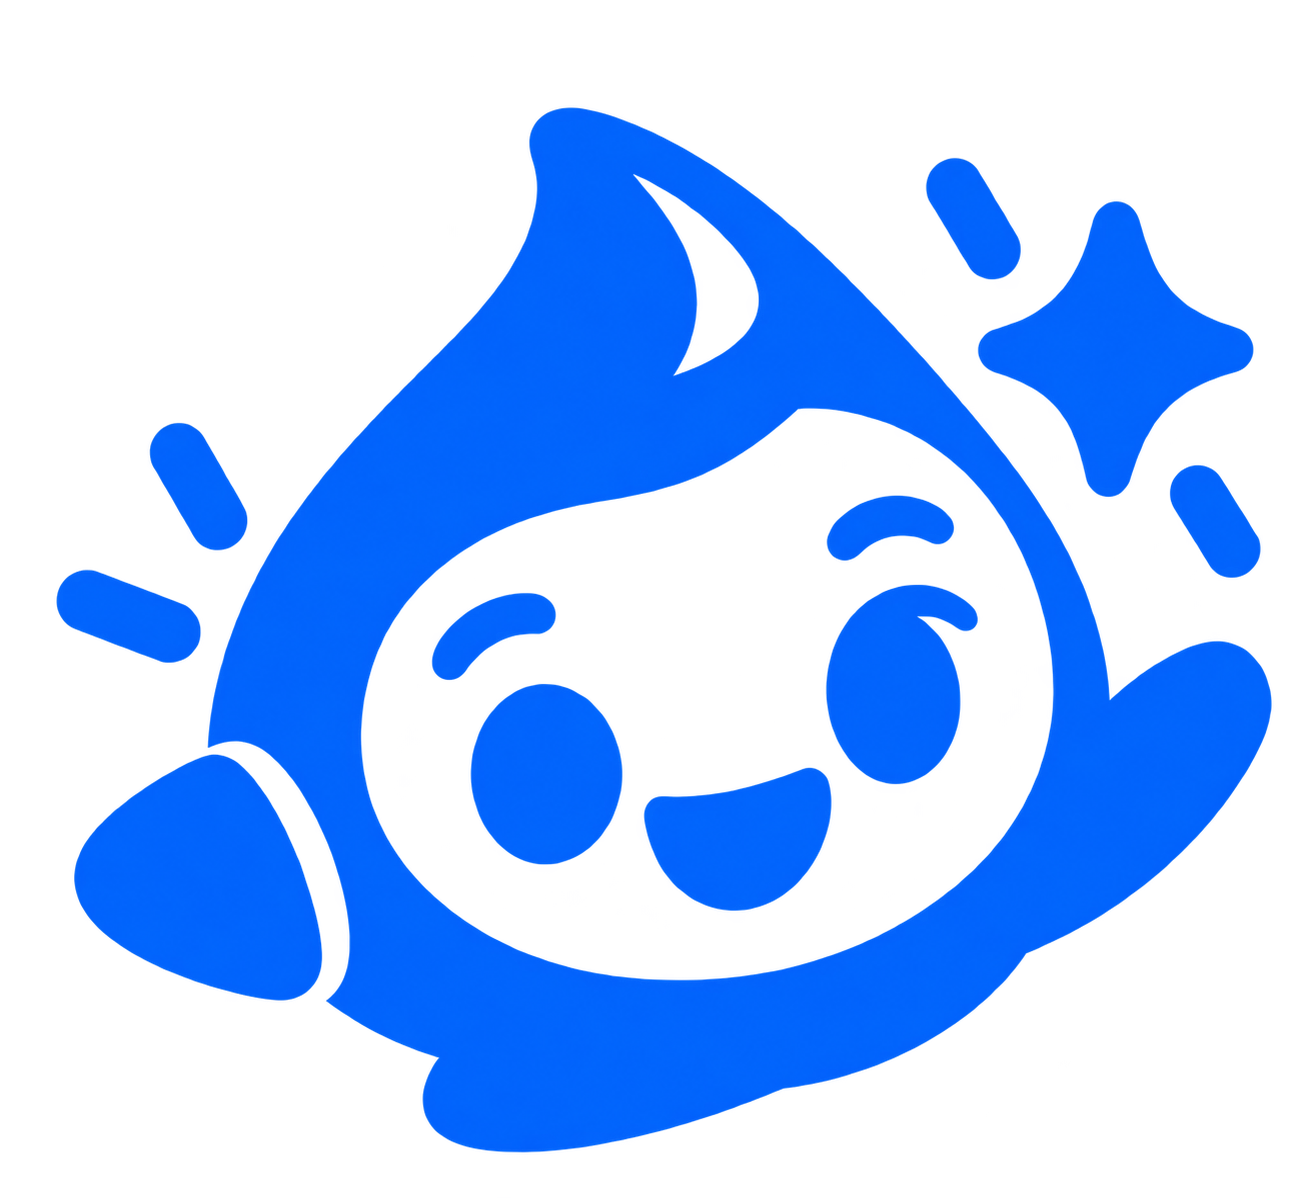
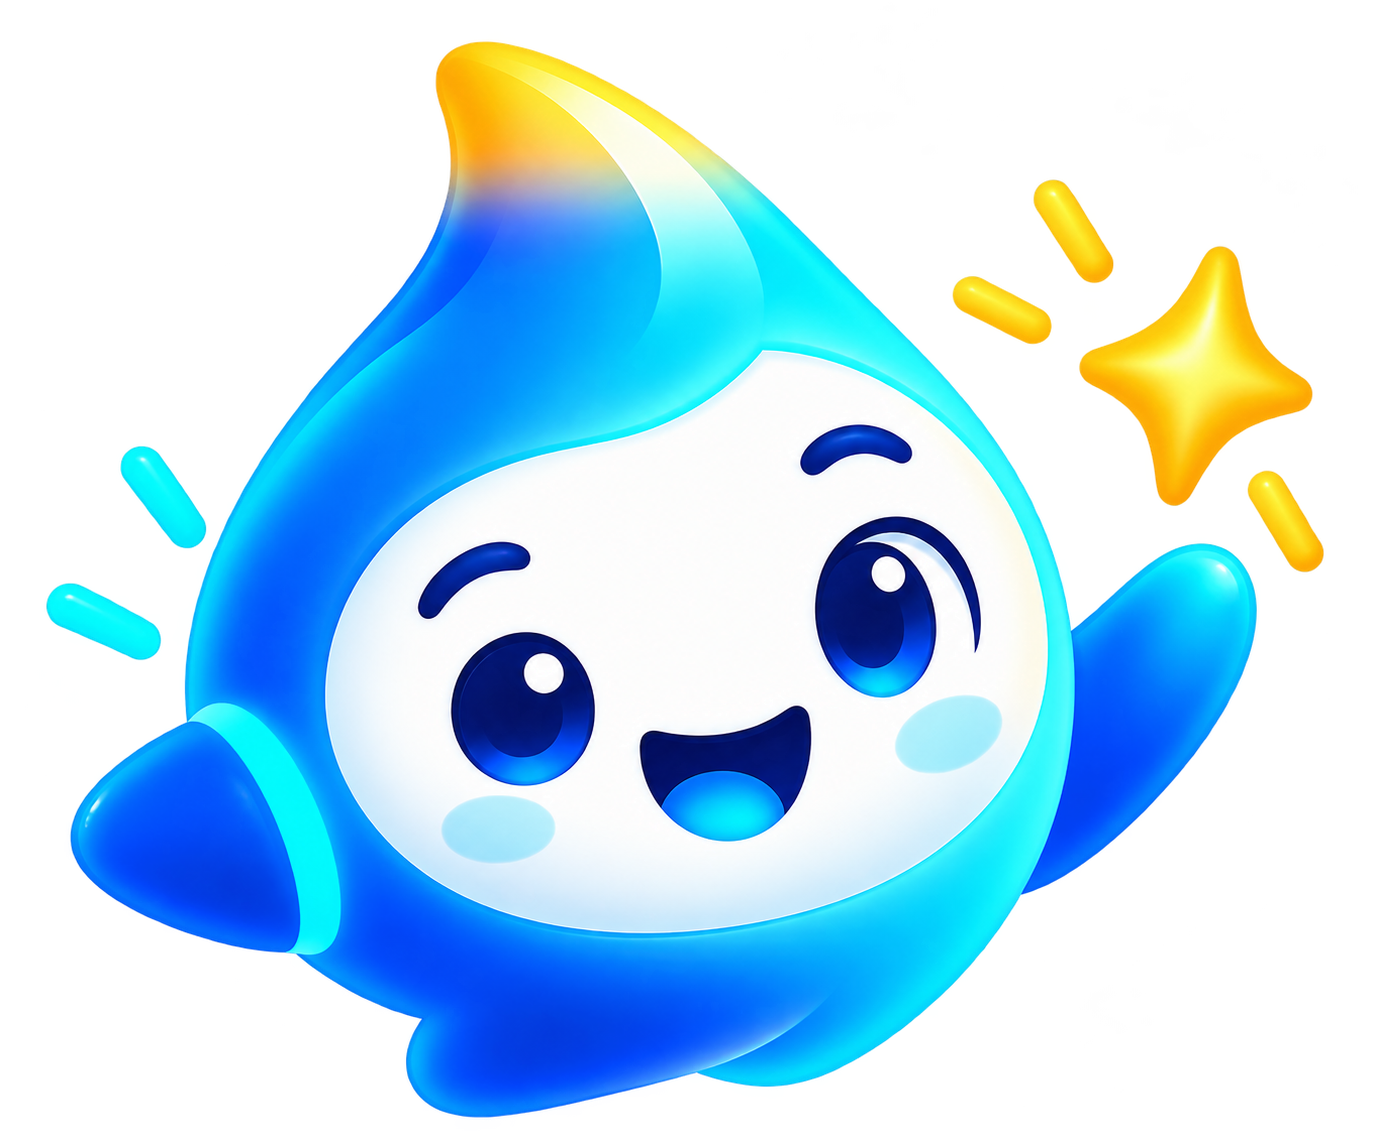
Usa la mascota principal de Brilla en las acciones de IA

diff --git a/aula-virtual/artifacts/cuadrilla/static/css/dmc.css b/aula-virtual/artifacts/cuadrilla/static/css/dmc.css
@@ -92,11 +92,11 @@ code{background:var(--soft);padding:1px 6px;border-radius:6px}
 .btn-cyan{background:var(--cyan);color:var(--on-cyan);border-color:var(--cyan)}.btn-cyan:hover{background:#00a6bb}
 .btn-block{width:100%}
 .btn .ico{width:18px;height:18px}
-.ai-mark{display:inline-flex;align-items:center;justify-content:center;gap:2px;flex:0 0 auto;min-width:42px;height:28px;padding:2px 4px;border-radius:8px;background:#fff;color:#0068ff;box-shadow:0 0 0 1px #0068ff12}
-.ai-mark img{display:block;width:24px;height:24px;object-fit:contain}
+.ai-mark{display:inline-flex;align-items:center;justify-content:center;gap:4px;flex:0 0 auto;min-width:54px;height:36px;padding:2px 4px;border-radius:10px;background:#fff;color:#004b8d;box-shadow:0 0 0 1px #01122b24}
+.ai-mark img{display:block;width:32px;height:32px;object-fit:contain}
 .ai-mark>span{font-size:9px;font-weight:700;letter-spacing:.02em;line-height:1}
 .ai-mark[hidden],[data-ai-label][hidden]{display:none}
-.btn[data-ai-action]{text-align:left;line-height:1.4}
+.btn[data-ai-action]{text-align:left;line-height:1.4;padding-block:6px}
 .btn[data-ai-action]:hover .ai-mark img,.btn[data-ai-action]:focus-visible .ai-mark img{animation:brilla-hello .55s ease-out}
 .btn[data-ai-action].is-ai-busy .ai-mark img{animation:brilla-working 1.6s ease-in-out infinite}
 .btn[data-ai-action].is-ai-busy .ai-mark{box-shadow:0 0 0 2px #00bfd75c}
@@ -266,7 +266,7 @@ progress.bar::-moz-progress-bar{background:var(--primary);border-radius:99px}
 .assistant-heading{display:flex;align-items:center;gap:10px}
 .ai-provider-fields{display:grid;gap:12px;margin:4px 0;padding:16px;border:1px solid var(--border);border-radius:10px;min-width:0}
 .ai-provider-fields legend{font-weight:600;padding:0 6px}.ai-provider-fields p{margin:0;overflow-wrap:anywhere}
-.assistant-heading img{object-fit:contain;flex-shrink:0}
+.assistant-heading img{width:52px;height:52px;object-fit:contain;flex-shrink:0}
 .assistant-suggestions .btn{white-space:normal;text-align:left}
 .assistant-findings{padding-left:20px;display:grid;gap:16px}
 .assistant-findings p{margin:0 0 6px;white-space:pre-line;overflow-wrap:anywhere}
@@ -297,7 +297,7 @@ progress.bar::-moz-progress-bar{background:var(--primary);border-radius:99px}
 @media(max-width:600px){.profile-fields{grid-template-columns:minmax(0,1fr)}.profile-heading{flex-direction:column}}
 
 /* Shared AI class study material */
-.summary-mascot{display:block;flex:0 0 28px;object-fit:contain}
+.summary-mascot{display:block;flex:0 0 36px;width:36px;height:36px;object-fit:contain}
 .class-summary{border-top:1px solid var(--border);padding-block:14px;overflow-wrap:anywhere}
 .class-summary:last-child{padding-bottom:0}
 .class-summary summary{min-height:44px;cursor:pointer;color:var(--title);padding:6px 0;list-style:disclosure-closed}

diff --git a/aula-virtual/artifacts/cuadrilla/templates/_ai.html b/aula-virtual/artifacts/cuadrilla/templates/_ai.html
@@ -1,7 +1,7 @@
 {# Shared marker for actions that call an AI provider, including queued work. #}
 {% macro ai_button(label, enabled=true, cls='btn', name=None, value=None, submit_hook=false, active=true, confirm=None) -%}
 <button class="{{ cls }}" type="submit"{% if name %} name="{{ name }}" value="{{ value }}"{% endif %}{% if submit_hook %} data-submit{% endif %}{% if confirm %} data-confirm="{{ confirm }}"{% endif %}{% if enabled and active %} data-ai-action title="Brilla · Acción con inteligencia artificial"{% endif %}>
-  {% if enabled %}<span class="ai-mark" aria-hidden="true"{% if not active %} hidden{% endif %}><img src="{{ url_for('static', path='img/brilla-ai.png') }}" alt="" width="24" height="24"><span>IA</span></span><span class="sr-only" data-ai-label{% if not active %} hidden{% endif %}>Brilla, inteligencia artificial: </span>{% endif %}
+  {% if enabled %}<span class="ai-mark" aria-hidden="true"{% if not active %} hidden{% endif %}><img src="{{ url_for('static', path='img/brilla-ai.png') }}?v=primary-20261015" alt="" width="32" height="32"><span>IA</span></span><span class="sr-only" data-ai-label{% if not active %} hidden{% endif %}>Brilla, inteligencia artificial: </span>{% endif %}
   <span>{{ label }}</span>
 </button>
 {%- endmacro %}

diff --git a/aula-virtual/artifacts/cuadrilla/templates/teacher/class.html b/aula-virtual/artifacts/cuadrilla/templates/teacher/class.html
@@ -143,7 +143,7 @@
     {% endif %}
     {% if clase.transcript %}
     <section class="card" id="resumen-clase" aria-labelledby="t-resumen-clase">
-      <h2 class="card-title" id="t-resumen-clase"><img class="summary-mascot" src="{{ url_for('static', path='img/brilla-ai.png') }}" alt="" width="28" height="28"> Resumen de la clase <span class="chip chip-info">IA</span></h2>
+      <h2 class="card-title" id="t-resumen-clase"><img class="summary-mascot" src="{{ url_for('static', path='img/brilla-ai.png') }}?v=primary-20261015" alt="" width="36" height="36"> Resumen de la clase <span class="chip chip-info">IA</span></h2>
       {% if resumen_clase and resumen_clase.estado == 'listo' and resumen_clase.contenido %}
         <p class="tiny muted">Los alumnos lo ven al publicarse la clase.</p>
         <details class="class-summary"><summary>Leer resumen</summary>{{ contenido_resumen(resumen_clase.contenido) }}</details>

diff --git a/aula-virtual/artifacts/cuadrilla/templates/teacher/assistant.html b/aula-virtual/artifacts/cuadrilla/templates/teacher/assistant.html
@@ -9,7 +9,7 @@
 {% block scripts %}<script src="{{ url_for('static', path='js/assistant.js') }}?v=20261015" defer></script>{% endblock %}
 {% block content %}
 <p class="crumbs"><a href="{{ url_for('teacher_home') }}">Mis cursos</a> › <a href="{{ url_for('teacher_course', curso_id=curso.id) }}">{{ curso.nombre }}</a> › Asistente Brilla</p>
-<h1 class="page-title assistant-heading"><img src="{{ url_for('static', path='img/brilla-ai.png') }}" alt="" width="42" height="42"> Asistente Brilla</h1>
+<h1 class="page-title assistant-heading"><img src="{{ url_for('static', path='img/brilla-ai.png') }}?v=primary-20261015" alt="" width="52" height="52"> Asistente Brilla</h1>
 <p class="page-sub">Comprende el avance de tus alumnos y prepara el siguiente paso con evidencias del curso.</p>
 {% include "teacher/_course_nav.html" %}
 <div class="grid assistant-layout">

diff --git a/aula-virtual/artifacts/cuadrilla/templates/student/course.html b/aula-virtual/artifacts/cuadrilla/templates/student/course.html
@@ -58,7 +58,7 @@
     </section>
 
     <section class="card" id="resumenes" aria-labelledby="t-resumenes">
-      <h2 class="card-title" id="t-resumenes"><img class="summary-mascot" src="{{ url_for('static', path='img/brilla-ai.png') }}" alt="" width="28" height="28"> Resúmenes de clase <span class="chip chip-info">IA</span></h2>
+      <h2 class="card-title" id="t-resumenes"><img class="summary-mascot" src="{{ url_for('static', path='img/brilla-ai.png') }}?v=primary-20261015" alt="" width="36" height="36"> Resúmenes de clase <span class="chip chip-info">IA</span></h2>
       <p class="small muted">Repasa lo explicado en cada sesión. Brilla prepara estos resúmenes a partir del transcript de la clase.</p>
       {% for f in quizzes %}
         {% set resumen = resumenes.get(f.clase.id) %}

diff --git a/aula-virtual/artifacts/cuadrilla/templates/base.html b/aula-virtual/artifacts/cuadrilla/templates/base.html
@@ -10,7 +10,7 @@
 <meta name="robots" content="noindex">
 <link rel="icon" href="{{ url_for('static', path='favicon.svg') }}" type="image/svg+xml">
 <link rel="preload" href="{{ url_for('static', path='fonts/poppins-latin.woff2') }}" as="font" type="font/woff2" crossorigin>
-  <link rel="stylesheet" href="{{ url_for('static', path='css/dmc.css') }}?v=20261015-vertex">
+  <link rel="stylesheet" href="{{ url_for('static', path='css/dmc.css') }}?v=20261015-primary">
 <script src="{{ url_for('static', path='js/ui.js') }}?v=20261015-notificaciones" defer></script>
 {% block scripts %}{% endblock %}
 </head>

diff --git a/aula-virtual/documentacion/brilla-acciones-ia.md b/aula-virtual/documentacion/brilla-acciones-ia.md
@@ -1,36 +1,33 @@
 # Brilla: indicador de acciones con IA
 
-Se eligió únicamente el logo 06, «Simplified icon», de la lámina BRILLA proporcionada por el usuario. El PNG transparente se sirve localmente desde `artifacts/cuadrilla/static/img/brilla-ai.png`.
+Se usa la mascota del logo 01, «PRIMARY LOGO», de la lámina BRILLA proporcionada por el usuario, sin la palabra BRILLA. El PNG transparente conserva el rostro blanco opaco, los colores y la estrella; se sirve localmente desde `artifacts/cuadrilla/static/img/brilla-ai.png`.
 
-## Comportamiento
+## Presentación y comportamiento
 
-La macro compartida `templates/_ai.html` muestra la mascota de 24 px y una etiqueta IA en el botón. El texto accesible y el tooltip identifican a Brilla y el uso de inteligencia artificial. El mismo recurso identifica OpenAI y Gemini; no depende de una marca de proveedor.
+La macro compartida `templates/_ai.html` muestra la mascota de 32 px y una etiqueta IA sobre una base blanca con borde sutil. Así se distingue en botones azules, blancos y de acciones de rechazo. Los botones tienen una altura mínima de 50 px y permiten que su texto ocupe varias líneas en pantallas pequeñas.
 
-- Administrador: Cargar malla, Confirmar y guardar malla PDF y Volver a pedir la propuesta a la IA. Subir brochure se marca si el curso ya tiene temas y la IA está configurada, porque entonces solicita una nueva propuesta.
-- Docente: Procesar clase, Reintentar procesamiento, Generar otro reto y rechazar un reto que generará un reemplazo. En la bandeja de revisión se conserva el valor del botón Rechazar y reemplazar.
-- Guardar reto propio muestra el indicador cuando el tema permite completar otros niveles con IA. Se actualiza al seleccionar otro tema y no aparece para un tema exclusivamente básico.
-- Alumno: Enviar una respuesta de tipo Definir o Caso, cuya evaluación usa IA.
+El mismo recurso aparece a 36 px en los encabezados de resúmenes de alumnos y docentes, y a 52 px en el encabezado del Asistente Brilla. Las URL del PNG y del CSS llevan una versión para que el navegador descargue el cambio.
 
-Las pistas almacenadas, la selección del quiz a partir del banco existente, las respuestas verificables, las aprobaciones manuales y la navegación conservan sus botones habituales.
+El texto accesible y el tooltip identifican a Brilla y el uso de inteligencia artificial. El indicador corresponde a la acción, con independencia de que el proveedor seleccionado sea OpenAI o Gemini.
 
-El icono saluda brevemente al pasar el cursor o recibir foco. Al enviar un formulario válido pulsa suavemente mientras la petición está pendiente. No se anima cuando se cancela la confirmación; se restaura al volver con el navegador. La animación respeta `prefers-reduced-motion`. No se deshabilitan los botones con nombre/valor para conservar la acción enviada al servidor.
+- Administrador: carga de malla y confirmación de una malla PDF, nuevas propuestas de IA y carga de brochure cuando solicita una propuesta.
+- Docente: procesamiento y reintentos de clase, generación y reemplazo de retos, resúmenes y consultas al Asistente Brilla. Guardar un reto propio lleva el indicador cuando puede completar otros niveles con IA.
+- Alumno: envío de respuestas abiertas cuya evaluación requiere IA.
 
-## Verificación
+Las pistas almacenadas, las respuestas verificables, las aprobaciones manuales y la navegación conservan sus botones habituales.
 
-122 pruebas aprobadas, incluyendo cinco nuevas comprobaciones de marcadores por rol, proveedor y tipo de respuesta. Revisión visual en Chrome a tamaño de escritorio y 390 px, sin desbordamiento; comprobación del estado ocupado y del indicador condicional del reto propio. Pruebas en base aislada y con proveedor simulado, sin llamadas pagadas de IA.
+La mascota saluda brevemente al pasar el cursor o recibir foco. Al enviar un formulario válido pulsa suavemente mientras la petición está pendiente. No se anima cuando se cancela la confirmación; se restaura al volver con el navegador. La animación respeta `prefers-reduced-motion`. No se deshabilitan los botones con nombre/valor para conservar la acción enviada al servidor.
 
-## Preparación del recurso y prompts
+## Verificación visual
 
-Se usó la herramienta integrada `image_gen` (no CLI) para aislar el logo seleccionado de la lámina y preparar su transparencia. Originales conservados fuera del repositorio; la segunda salida es el recurso final. No se usa generación de imágenes en tiempo de ejecución de la plataforma.
+Revisión en Chrome a tamaño de escritorio y a 390 y 320 px: imágenes cargadas, botones de varios estilos legibles, textos largos adaptados y sin desbordamiento horizontal. Se comprobó también el encabezado del Asistente Brilla a 320 px. La revisión local usa una base aislada y un proveedor simulado.
 
-Prompt de extracción:
+## Preparación del recurso
 
-```text
-Use case: background-extraction. From the supplied BRILLA brand sheet, isolate ONLY the blue flat mascot in panel 06, labeled SIMPLIFIED ICON, in the lower right. Preserve its exact existing silhouette, smiling facial features, droplet crest, side arm, separate sparkle and short accent strokes. Keep the flat bright blue identity, approximately #0068FF; do not use the 3D mascot or any other variant. Remove the pale panel background, headings, borders, lettering and all other panels. Deliver a single centered, tightly framed, high resolution transparent PNG of that same simplified mascot and its sparkle. The face and all negative space must also be fully transparent, not white or pale blue. Clean crisp edges; no added shadow, no new details, no text, no container. This is a small button icon asset.
-```
+Se usó la herramienta integrada `image_gen.imagegen` para aislar la mascota del PRIMARY LOGO de la lámina original y preparar el PNG transparente. No se generan imágenes durante el uso de la plataforma.
 
-Prompt final de limpieza (edición de la primera salida):
+Prompt exacto de la edición:
 
 ```text
-Clean up this exact blue BRILLA simplified mascot cutout for production as a small UI icon. Preserve the shape, placement, face and separate sparkle/accents exactly. Make every blue shape uniformly solid #0068FF with crisp antialiased edges. Remove ALL tiny stray blue pixels, speckles, texture, noise and edge artifacts, especially inside the face, crest cutout and surrounding negative space. All negative space and background fully transparent. No pale or white fills, no text, no shadows, no gradients, no new shapes. Center and tightly frame the existing mascot with a small transparent margin.
+Use case: background-extraction. Asset type: production transparent mascot for website AI action buttons and section headings. Edit target: the supplied BRILLA brand sheet. Isolate ONLY the full-color three-dimensional mascot from the upper-left panel 01, PRIMARY LOGO; do NOT use panel 02 or the simplified flat logo. Preserve the existing primary mascot's exact friendly face, navy blue eyes and mouth, pale opaque white face, cyan and blue glossy droplet body, yellow-tipped swept crest, both arms, golden four-point sparkle and small cyan/yellow accent strokes. Remove the word BRILLA completely, all typography and headings, the pale panel background, borders, and every other logo. Keep the mascot white face and eye highlights opaque, with genuine transparent background and all outer negative space transparent. Preserve original identity, pose, colors, shading and proportions; no redesign. Deliver one centered mascot and its sparkle, tightly framed together at near-full canvas size with only a small 3% transparent margin, clean smooth edges suitable at 32px. No text, no badge, no enclosing square, no panel, no broad cast shadow or glow. The golden sparkle and all appendages must fit completely inside the canvas.
 ```
